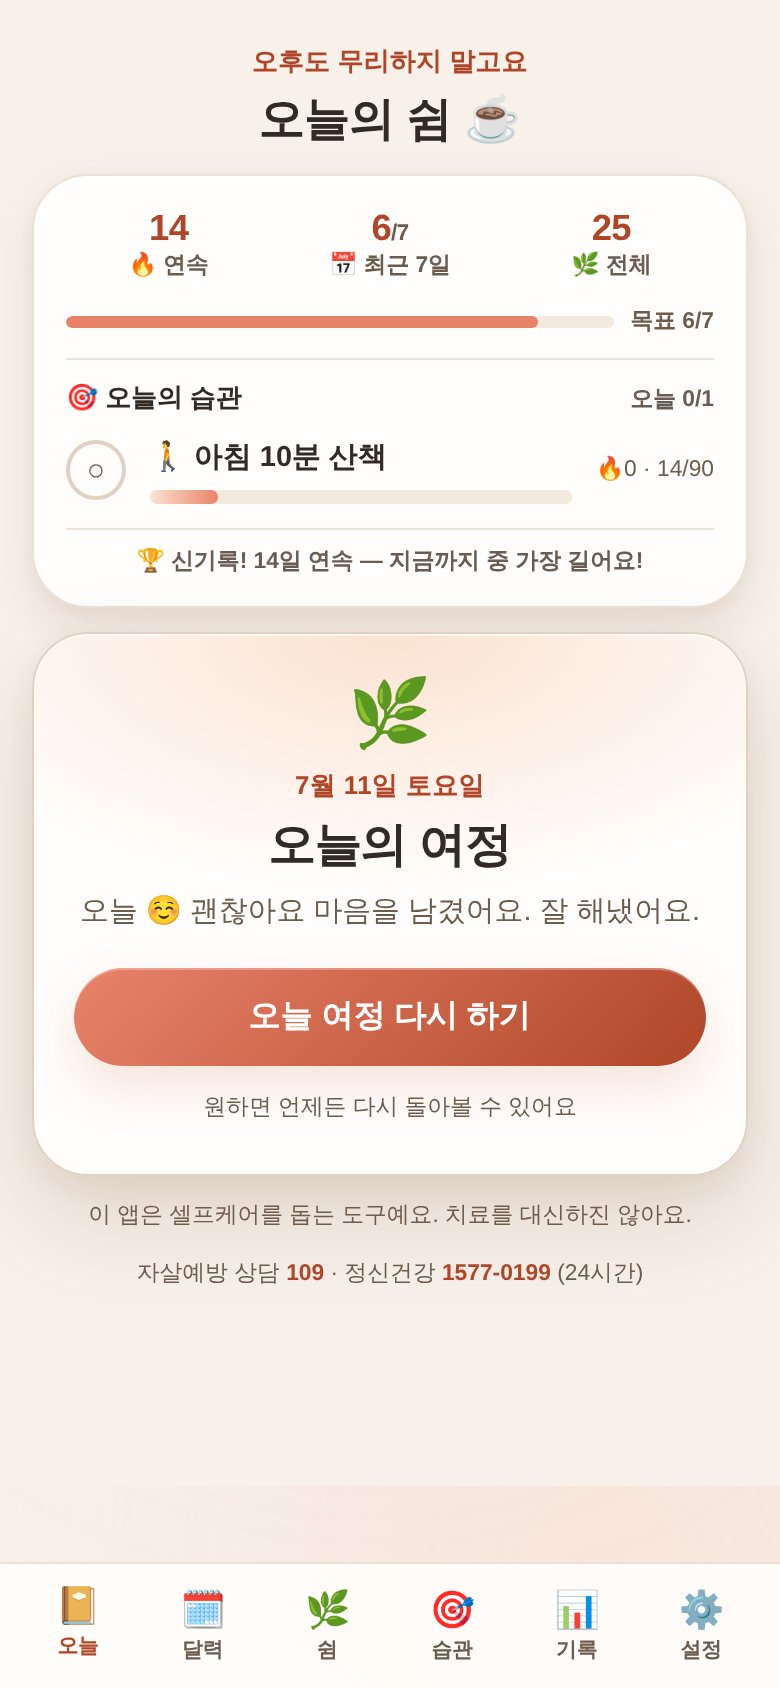
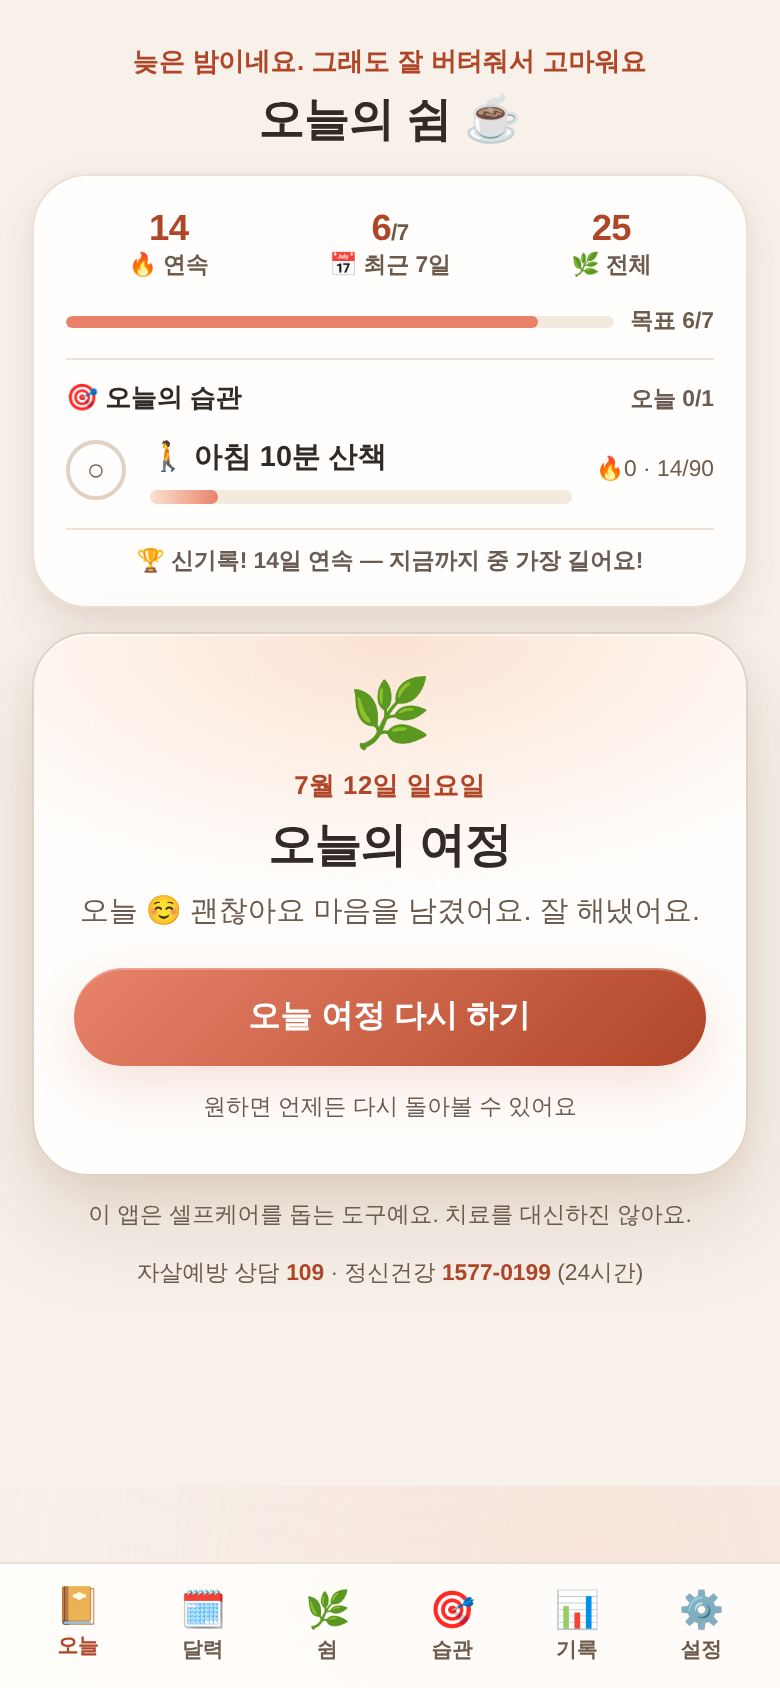
배지 서브탭 스크롤 제로 완성 + fitcheck에 편입
- 작은 화면(≤740px) 축약 모드에 배지 카드 압축 규칙 추가 —
  SE에서 83px 초과하던 배지 서브탭도 한 화면에
- fitcheck 검사 대상에 배지 서브탭 포함 (22개 화면 전부 ✅)
- 스토어 스크린샷 갱신(요약·분석·배지 3서브탭 반영)

Claude-Session: https://claude.ai/code/session_01BKSXzvx7JnDsncL3siULuh

Changed region(s): [[0.1538, 0.0308, 0.8308, 0.0616], [0.5231, 0.4621, 0.5538, 0.4929], [0.4615, 0.4621, 0.4923, 0.4929]]

diff --git a/style.css b/style.css
@@ -1335,4 +1335,14 @@ html[data-textsize="xl"] { font-size: 20.5px; }
   .card.center h2, .help-always h2 { margin-bottom: var(--s1); font-size: var(--t-base); }
   .quote { font-size: var(--t-base); }
   .comfort-tools { padding-top: var(--s1); }
+  /* 배지 서브탭 압축 */
+  .level-row { margin: var(--s1) 0 var(--s2); }
+  .level-emoji { font-size: 1.6rem; }
+  .badge-status { margin: var(--s1) 0; }
+  .badge-next { margin-bottom: var(--s2); padding: var(--s2); font-size: var(--t-xs); }
+  .badge-detail { margin-bottom: var(--s2); padding: var(--s2); font-size: var(--t-xs); }
+  .badge-grid { grid-template-columns: repeat(auto-fill, minmax(58px, 1fr)); gap: var(--s1); }
+  .badge { padding: var(--s1); gap: 2px; }
+  .badge .badge-emoji { font-size: 1.1rem; }
+  .badge .badge-title { font-size: 0.56rem; }
 }
